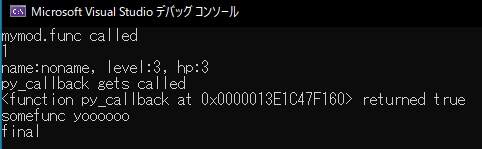
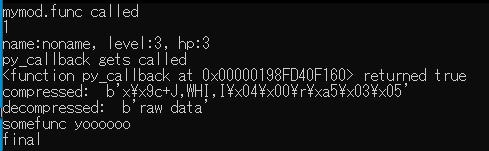
added module

Changed region(s): [[0.0, 0.0, 0.9647, 1.0]]

diff --git a/pymodule/dllmain.cpp b/pymodule/dllmain.cpp
@@ -1,0 +1,93 @@
+#include "pch.h"
+
+#define PY_SSIZE_T_CLEAN
+#include <Python.h>
+#include <structmember.h>
+//#pragma comment(lib, "python39.lib")
+
+#include <zlib.h>
+#pragma comment(lib, "zlibstat.lib")
+
+static PyObject* s_inflate_error;
+static PyObject* decompress(PyObject* self, PyObject* arg)
+{
+	int err = 0;
+	z_stream strm;
+	memset(&strm, 0, sizeof(z_stream));
+	if (inflateInit(&strm) != Z_OK)
+		return NULL;
+
+	// input
+	Py_buffer ibuf = { 0 };
+	if (PyObject_GetBuffer(arg, &ibuf, 0) != 0)
+	{
+		inflateEnd(&strm);
+		return NULL;
+	}
+	strm.next_in = (z_const Bytef*)ibuf.buf;
+	strm.avail_in = ibuf.len;
+
+	// output
+	Py_ssize_t offset = 0;
+	Py_ssize_t obuflen = 0x400000;
+	PyObject* obuf = PyBytes_FromStringAndSize(0, obuflen);
+	do
+	{
+		strm.next_out = (Byte*)PyBytes_AS_STRING(obuf) + offset;
+		strm.avail_out = obuflen - offset;
+
+		Py_BEGIN_ALLOW_THREADS;
+		err = inflate(&strm, Z_FINISH);
+		Py_END_ALLOW_THREADS;
+
+		// reallocate
+		if (err == Z_BUF_ERROR)
+		{
+			obuflen *= 2;
+			if (_PyBytes_Resize(&obuf, obuflen) < 0)
+				break;
+		}
+
+		offset += strm.total_out;
+	} while (err == Z_OK || err == Z_BUF_ERROR);
+
+	if (err != Z_STREAM_END || _PyBytes_Resize(&obuf, strm.total_out) < 0)
+	{
+		PyErr_Format(s_inflate_error, "Error %d while decompressing data", err);
+		Py_XDECREF(obuf);
+	}
+
+	PyBuffer_Release(&ibuf);
+	inflateEnd(&strm);
+	return obuf;
+}
+
+PyMODINIT_FUNC
+PyInit_pymodule(void)
+{
+	static struct PyMethodDef methods[] = {
+		{ "decompress", decompress, METH_O, "" },
+		{ NULL, NULL, 0, NULL }
+	};
+
+	static struct PyModuleDef modDef = {
+		PyModuleDef_HEAD_INIT,
+		"inflate",
+		NULL,
+		-1,
+		methods,
+		NULL, NULL, NULL, NULL
+	};
+
+	PyObject* m = PyModule_Create(&modDef);
+	if (!m)
+		return NULL;
+
+	s_inflate_error = PyErr_NewException("inflate.error", NULL, NULL);
+	if (s_inflate_error)
+	{
+		Py_INCREF(s_inflate_error);
+		PyModule_AddObject(m, "error", s_inflate_error);
+	}
+	return m;
+}

diff --git a/pymodule/pch.h b/pymodule/pch.h
@@ -1,0 +1,13 @@
+// pch.h: プリコンパイル済みヘッダー ファイルです。
+// 次のファイルは、その後のビルドのビルド パフォーマンスを向上させるため 1 回だけコンパイルされます。
+// コード補完や多くのコード参照機能などの IntelliSense パフォーマンスにも影響します。
+// ただし、ここに一覧表示されているファイルは、ビルド間でいずれかが更新されると、すべてが再コンパイルされます。
+// 頻繁に更新するファイルをここに追加しないでください。追加すると、パフォーマンス上の利点がなくなります。
+
+#ifndef PCH_H
+#define PCH_H
+
+// プリコンパイルするヘッダーをここに追加します
+#include "framework.h"
+
+#endif //PCH_H

diff --git a/pyc/pyc.cpp b/pyc/pyc.cpp
@@ -318,6 +318,8 @@ int main(int argc, char* argv[])
 
 	py_run(tstate, R"(
 import mob
+import pymodule
+import zlib
 
 def py_callback(n, s):
 	print('py_callback gets called')
@@ -334,6 +336,11 @@ lmob = mob.mob(3, 3)
 print(lmob)
 
 mob.callback(py_callback)
+
+data = b'raw data'
+compressed = zlib.compress(data)
+print('compressed: ', compressed)
+print('decompressed: ', pymodule.decompress(compressed))
 )");
 
 	// call from c

diff --git a/pymodule/pch.cpp b/pymodule/pch.cpp
@@ -1,0 +1,5 @@
+// pch.cpp: プリコンパイル済みヘッダーに対応するソース ファイル
+
+#include "pch.h"
+
+// プリコンパイル済みヘッダーを使用している場合、コンパイルを成功させるにはこのソース ファイルが必要です。

diff --git a/pymodule/framework.h b/pymodule/framework.h
@@ -1,0 +1,5 @@
+#pragma once
+
+#define WIN32_LEAN_AND_MEAN             // Windows ヘッダーからほとんど使用されていない部分を除外する
+// Windows ヘッダー ファイル
+#include <windows.h>
